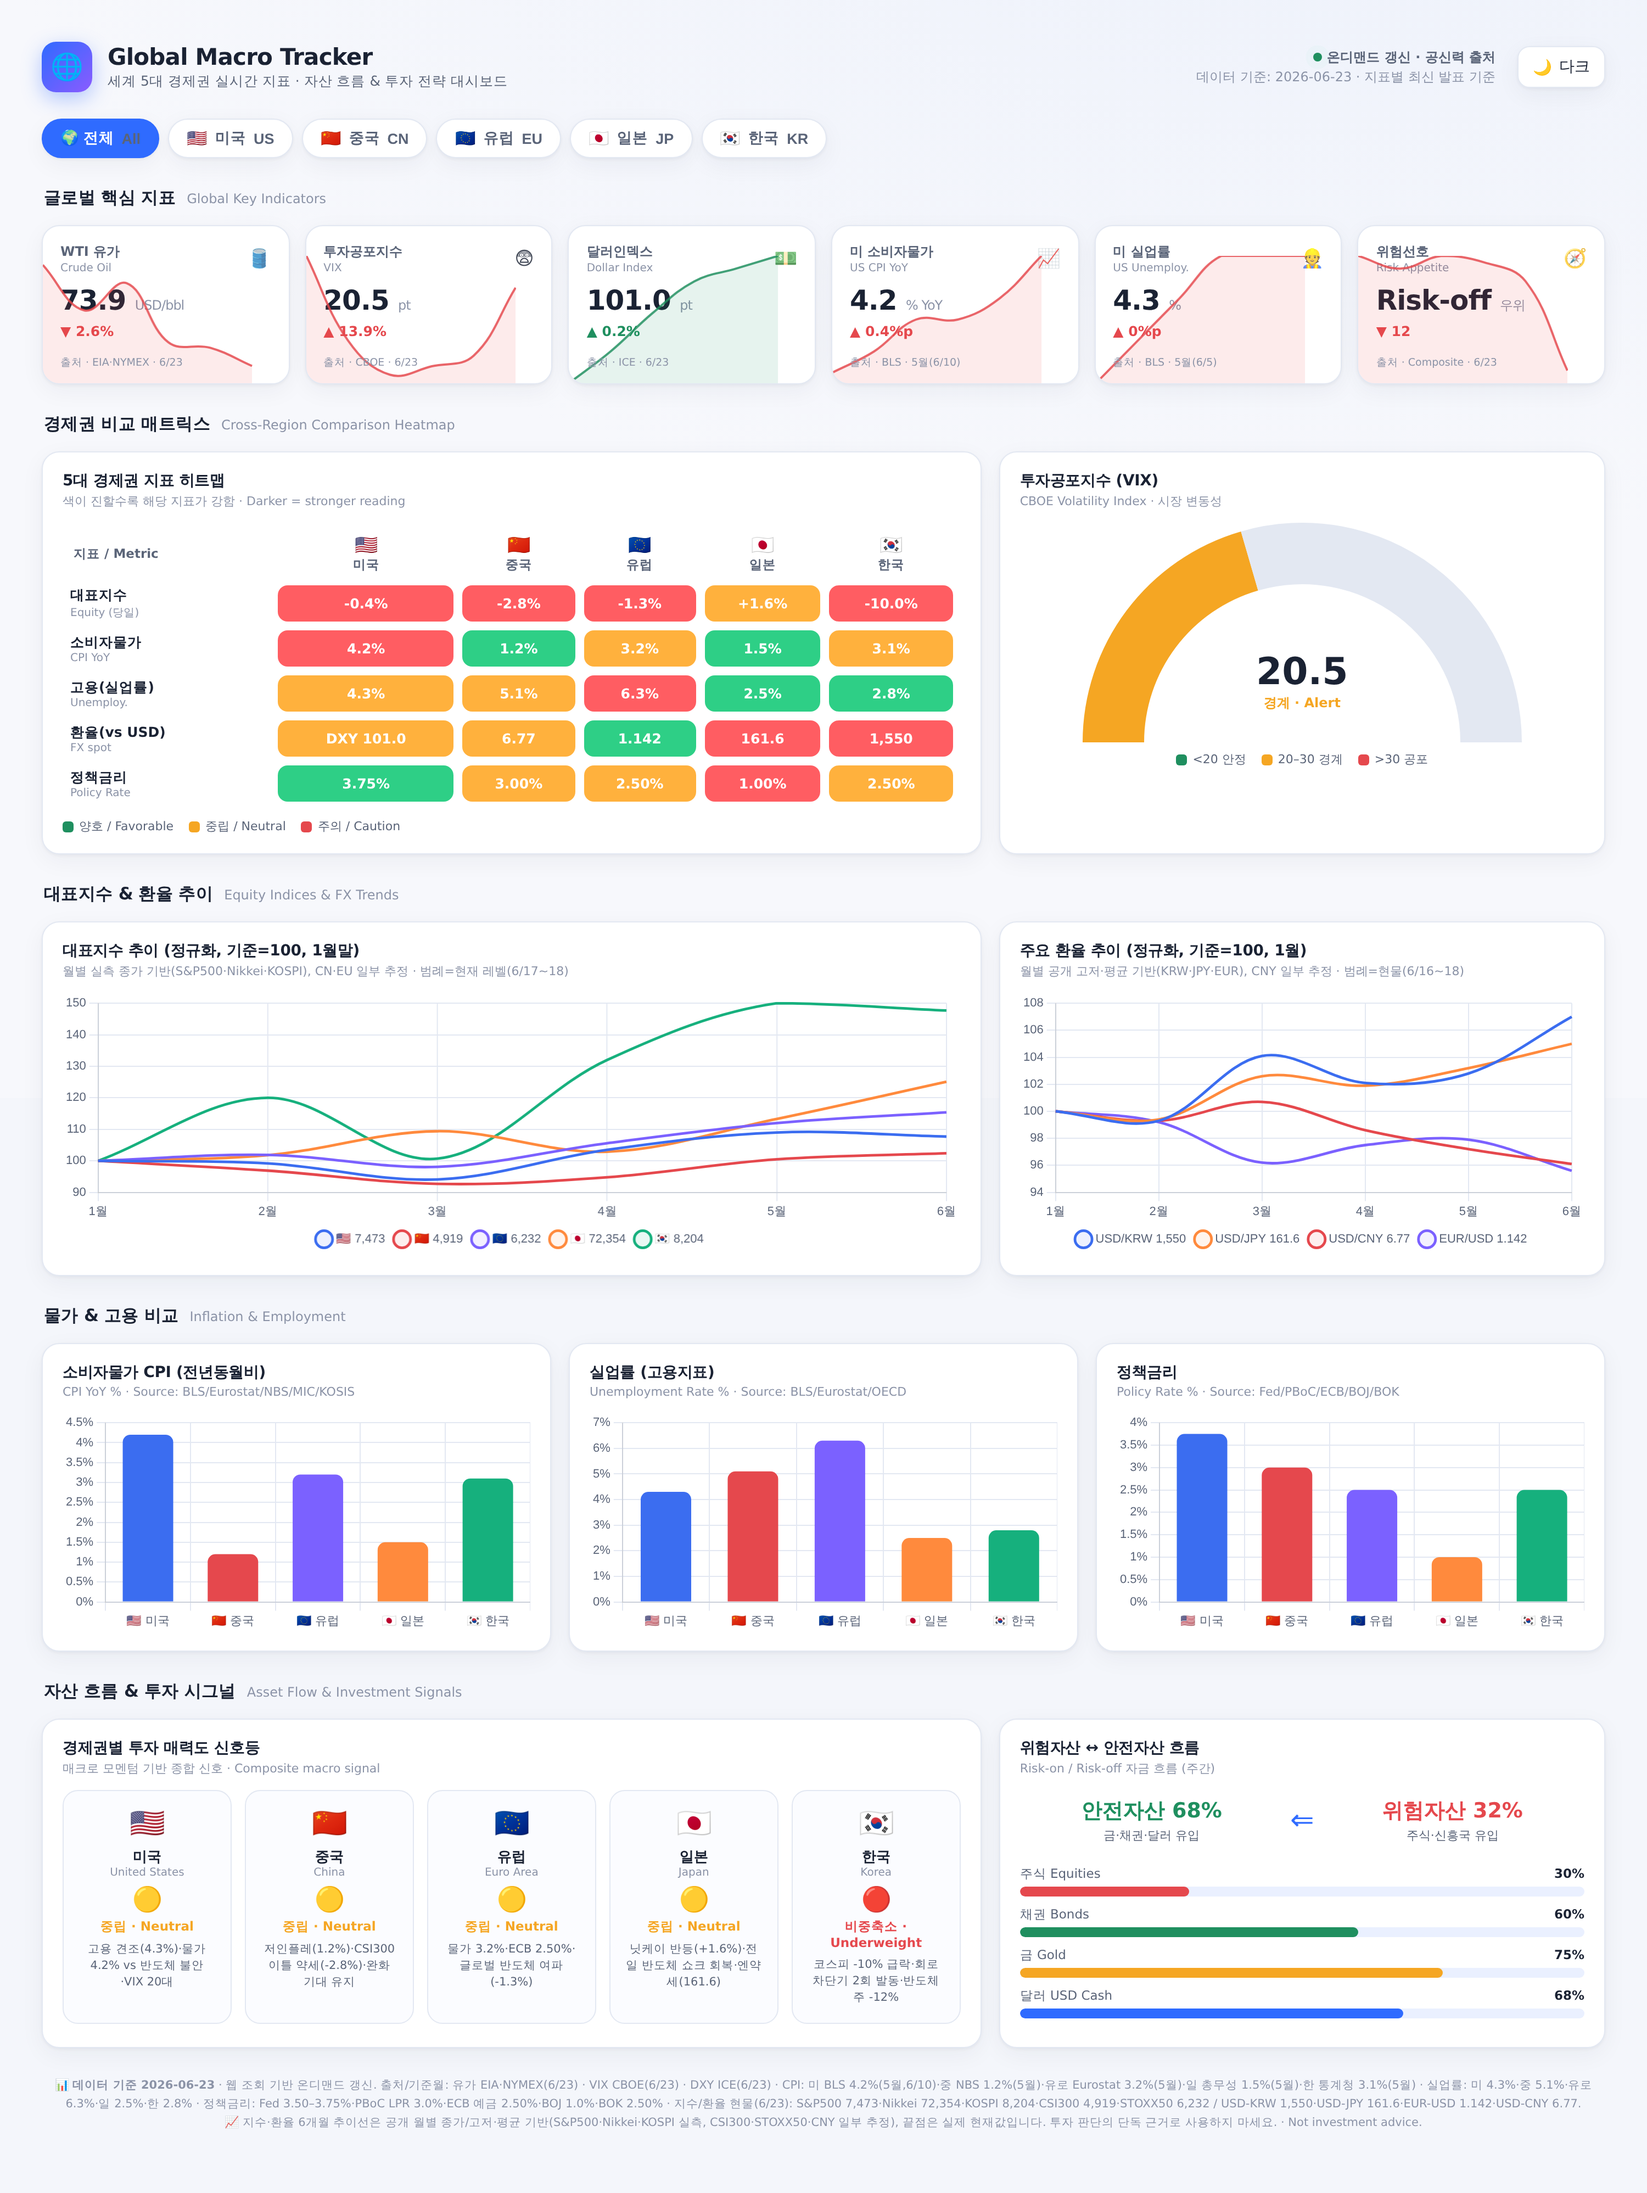
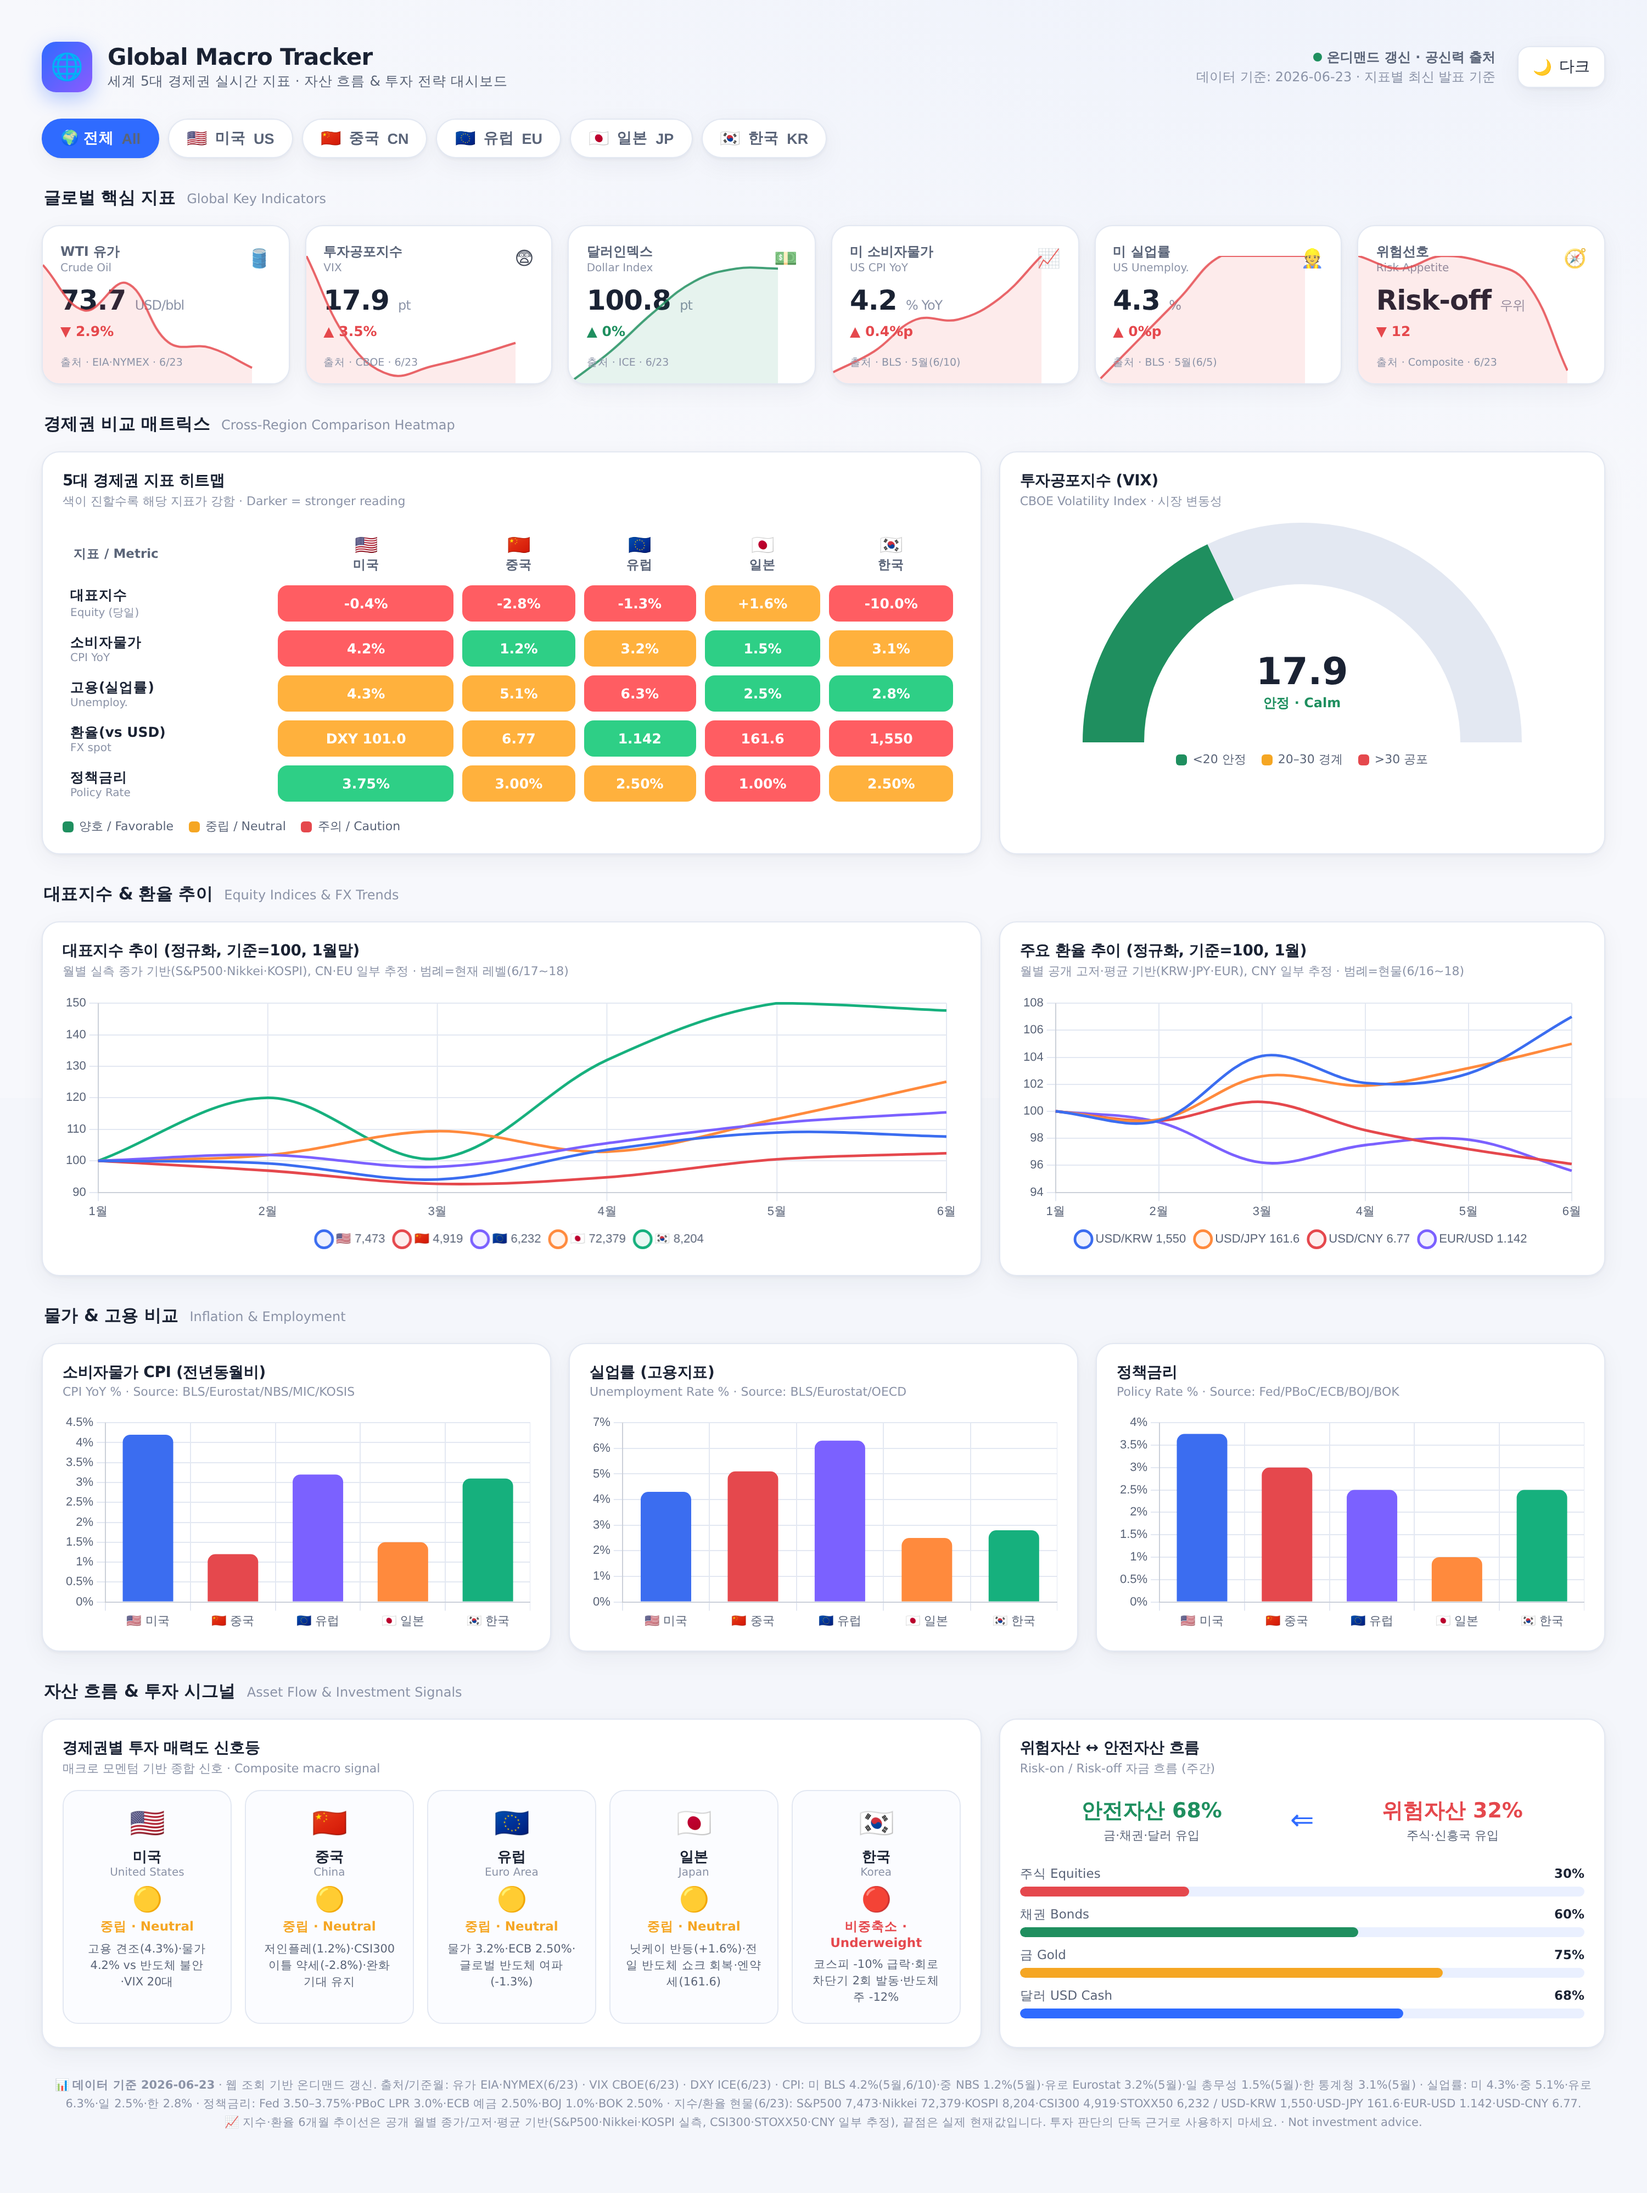
dashboard: 2026-06-23 데이터 재검증 및 수치 보정
2회차 웹 검색으로 수치 보정:
- WTI $73.7(-2.9%) · VIX 17.9(+3.5%) · DXY 100.8(보합)
- Nikkei 레벨 72,379(세부 보정)
- mockup-dark/light 재렌더링 (콘솔 에러 0)

Claude-Session: https://claude.ai/code/session_01369HY4U9p1trzQrCJoz36K

diff --git a/index.html b/index.html
@@ -334,7 +334,7 @@
     CPI: 미 BLS 4.2%(5월,6/10)·중 NBS 1.2%(5월)·유로 Eurostat 3.2%(5월)·일 총무성 1.5%(5월)·한 통계청 3.1%(5월) ·
     실업률: 미 4.3%·중 5.1%·유로 6.3%·일 2.5%·한 2.8% ·
     정책금리: Fed 3.50–3.75%·PBoC LPR 3.0%·ECB 예금 2.50%·BOJ 1.0%·BOK 2.50% ·
-    지수/환율 현물(6/23): S&amp;P500 7,473·Nikkei 72,354·KOSPI 8,204·CSI300 4,919·STOXX50 6,232 / USD-KRW 1,550·USD-JPY 161.6·EUR-USD 1.142·USD-CNY 6.77.<br/>
+    지수/환율 현물(6/23): S&amp;P500 7,473·Nikkei 72,379·KOSPI 8,204·CSI300 4,919·STOXX50 6,232 / USD-KRW 1,550·USD-JPY 161.6·EUR-USD 1.142·USD-CNY 6.77.<br/>
     📈 지수·환율 6개월 추이선은 공개 월별 종가/고저·평균 기반(S&amp;P500·Nikkei·KOSPI 실측, CSI300·STOXX50·CNY 일부 추정), 끝점은 실제 현재값입니다. 투자 판단의 단독 근거로 사용하지 마세요. · Not investment advice.
   </div>
 </div>
@@ -358,12 +358,12 @@ const REGIONS = {
 const DATA = {
   // 글로벌 KPI 카드 — 2026-06 공신력 출처 실측치
   kpi: [
-    { id:'wti',  label:'WTI 유가',     en:'Crude Oil',     icon:'🛢', val:'73.9', unit:'USD/bbl', chg:-2.6, src:'EIA·NYMEX · 6/23',
-      spark:[85,80,83,76.5,75.9,73.9] },
-    { id:'vix',  label:'투자공포지수',  en:'VIX',           icon:'😨', val:'20.5', unit:'pt', chg:+13.9, src:'CBOE · 6/23', invert:true,
-      spark:[22,18,16.4,16.8,17.3,20.5] },
-    { id:'dxy',  label:'달러인덱스',    en:'Dollar Index',  icon:'💵', val:'101.0',unit:'pt', chg:+0.2, src:'ICE · 6/23',
-      spark:[99,99.5,100.1,100.6,100.8,101.0] },
+    { id:'wti',  label:'WTI 유가',     en:'Crude Oil',     icon:'🛢', val:'73.7', unit:'USD/bbl', chg:-2.9, src:'EIA·NYMEX · 6/23',
+      spark:[85,80,83,76.5,75.9,73.7] },
+    { id:'vix',  label:'투자공포지수',  en:'VIX',           icon:'😨', val:'17.9', unit:'pt', chg:+3.5, src:'CBOE · 6/23', invert:true,
+      spark:[22,18,16.4,16.8,17.3,17.9] },
+    { id:'dxy',  label:'달러인덱스',    en:'Dollar Index',  icon:'💵', val:'100.8',unit:'pt', chg:0.0, src:'ICE · 6/23',
+      spark:[99,99.5,100.1,100.6,100.8,100.8] },
     { id:'cpi',  label:'미 소비자물가', en:'US CPI YoY',    icon:'📈', val:'4.2', unit:'% YoY', chg:+0.4, src:'BLS · 5월(6/10)', invert:true,
       spark:[3.1,3.3,3.6,3.6,3.8,4.2] },
     { id:'emp',  label:'미 실업률',     en:'US Unemploy.',  icon:'👷', val:'4.3', unit:'%', chg:0.0, src:'BLS · 5월(6/5)', invert:true,
@@ -388,7 +388,7 @@ const DATA = {
   // 6/22 반도체발 글로벌 매도→6/23 KOSPI -10%·회로차단기 발동, Nikkei +1.6% 반등
   indices: {
     labels: MONTHS,
-    levels: { US:'7,473', CN:'4,919', EU:'6,232', JP:'72,354', KR:'8,204' },
+    levels: { US:'7,473', CN:'4,919', EU:'6,232', JP:'72,379', KR:'8,204' },
     series: {
       US:[100,99.2,94.1,103.5,109.0,107.7], CN:[100,96.9,92.7,94.8,100.5,102.4],
       EU:[100,101.9,98.1,105.6,112.0,115.4], JP:[100,101.8,109.4,102.9,113.3,125.1],
@@ -411,7 +411,7 @@ const DATA = {
   emp: { US:4.3, CN:5.1, EU:6.3, JP:2.5, KR:2.8 },
   // 정책금리 실측
   rate:{ US:3.75, CN:3.00, EU:2.50, JP:1.00, KR:2.50 },
-  vix: 20.5,
+  vix: 17.9,
   // 투자 시그널 신호등 — 데이터 기반 종합 판단
   signals: {
     US:{ light:'🟡', verdict:'중립',     vEn:'Neutral',    note:'고용 견조(4.3%)·물가 4.2% vs 반도체 불안·VIX 20대' },
